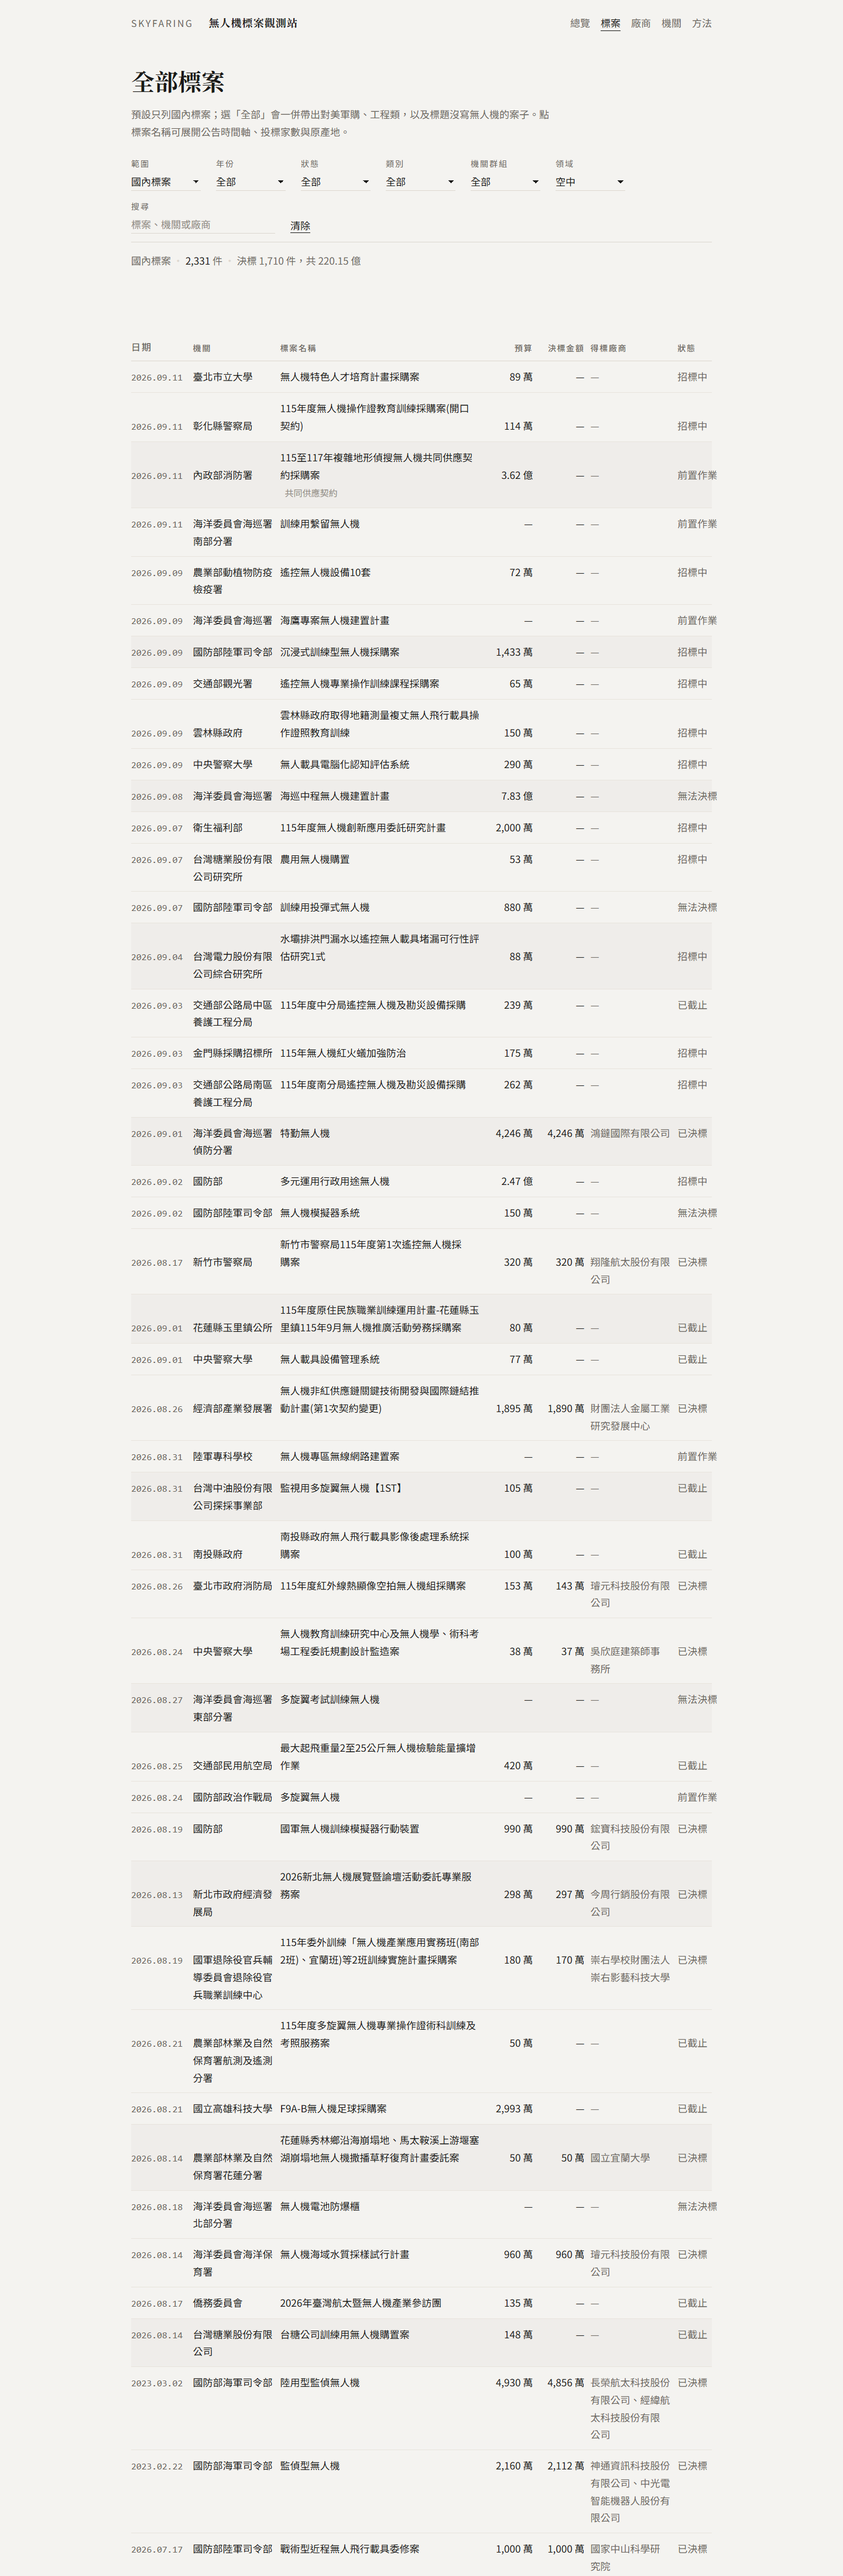
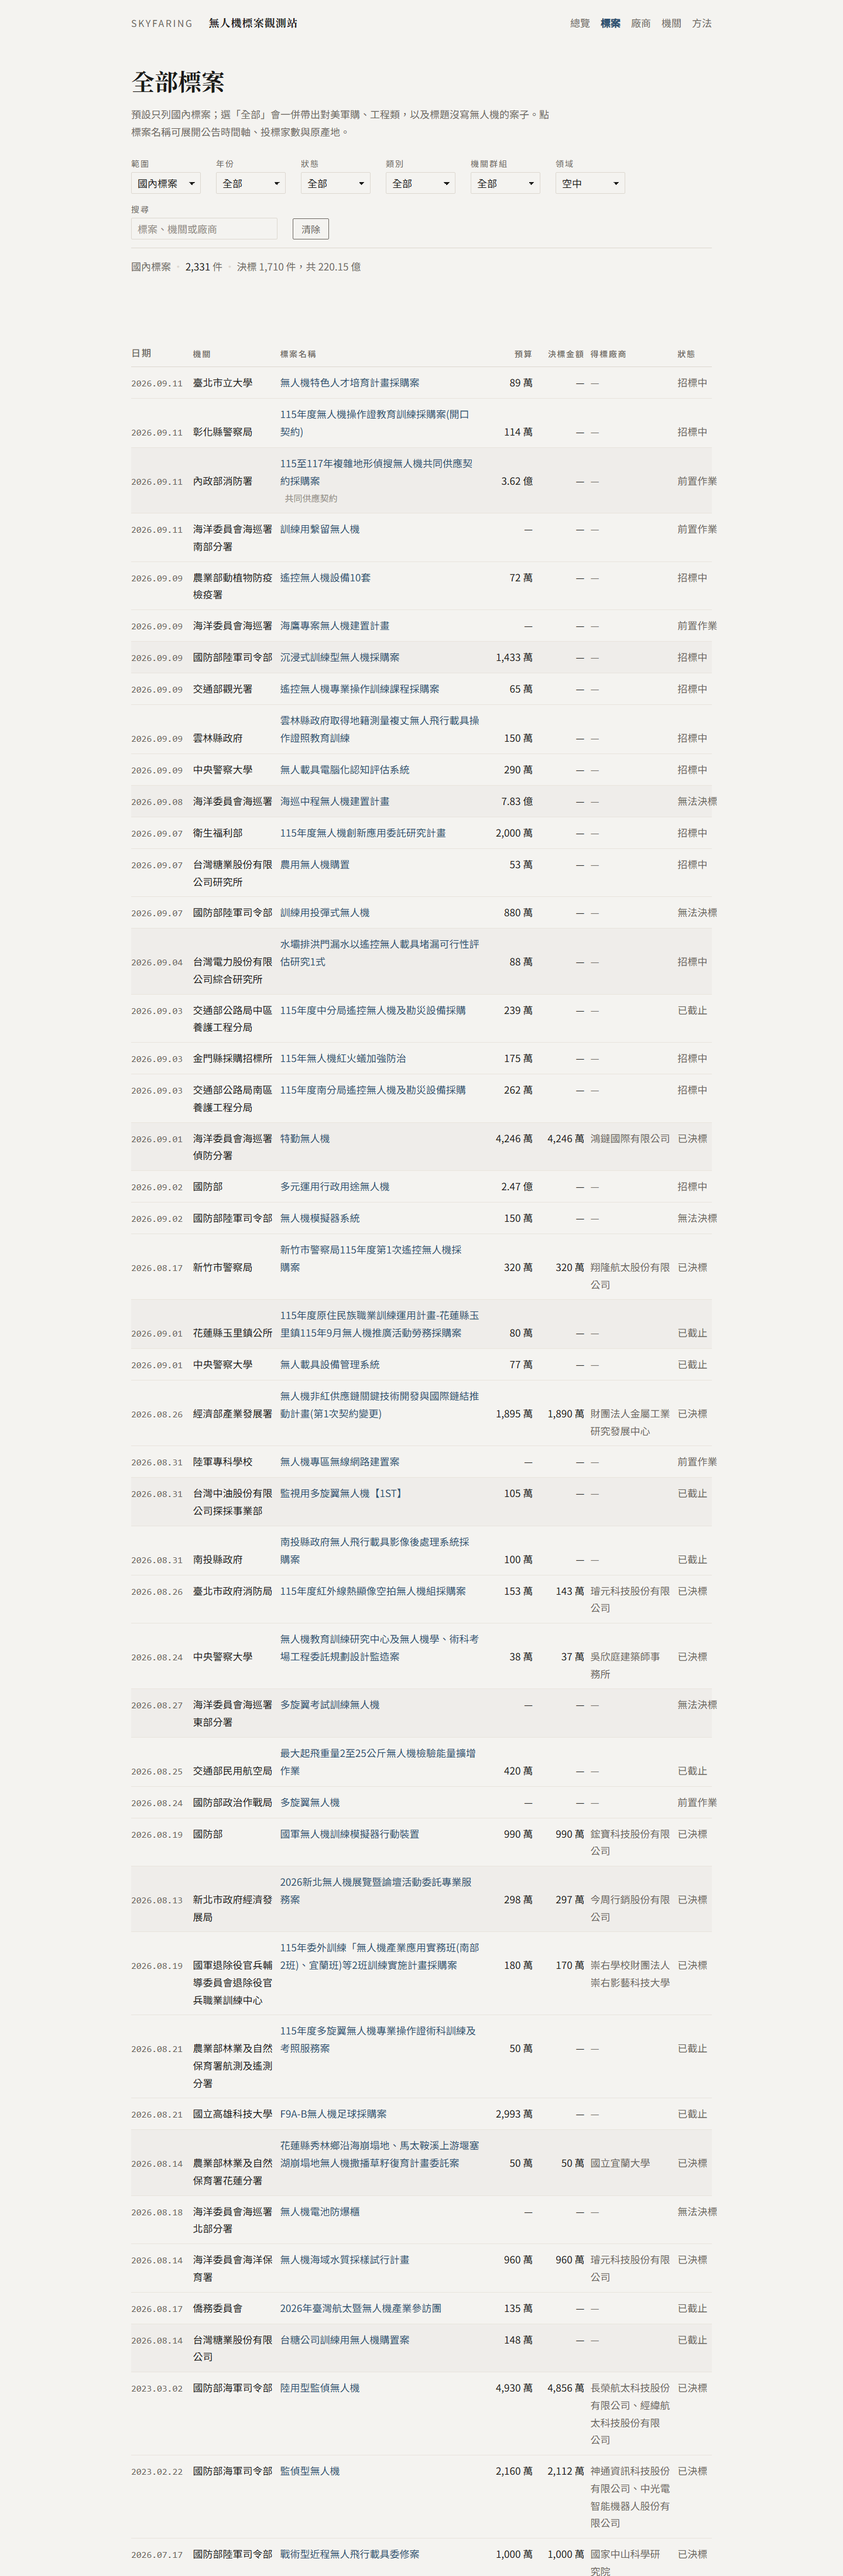
連結不用底線，改用顏色；底線式按鈕改成細框
- 新增 --link／--link-hover 兩個變數：連結用主色藍，hover 轉赭色，
  深淺色各一組。所有 a 一律 text-decoration: none，站內站外一致。
- 頁頭頁籤：當前頁改成字重 700 加主色，其餘 --muted、hover 轉主色，
  拿掉原本的底線標示。
- 篩選器的 select 與搜尋框從只有下緣線改成 1px 全框、2px 圓角，
  hover 邊框轉主色；下拉箭頭位置跟著內縮。
- 「清除」「再看 N 筆」這類底線文字按鈕改成細框按鈕（1px 邊框、
  2px 圓角、無底色無陰影），hover 文字與邊框轉主色。
- 表格裡可展開的標案名稱另立 .linkbtn：外觀比照一般連結，
  不加框也不加 border-bottom，hover 轉赭色。
- 廠商與機關頁可展開的列改成 hover 整列淡底色（var(--paper)）。
- :focus-visible 維持 1px 外框不動。
- 清掉全部 text-underline-offset 宣告；CDP 實測五頁的 a／button
  computed textDecorationLine 皆無 underline，樣式表裡也沒有任何
  underline 宣告（hover 狀態同樣不會出現）。

五頁資源版號 v11 -> v12。

diff --git a/assets/style.css b/assets/style.css
@@ -11,6 +11,8 @@
   --rule: #ddd8d0;
   --hair: #e8e4dd;
   --accent: #2b4f6f;
+  --link: #2b4f6f;
+  --link-hover: #a8763e;
 
   /* 原產地／類別用色，深淺色各一套 */
   --c1: #2b4f6f;
@@ -38,6 +40,8 @@
     --rule: #2b2d2a;
     --hair: #232522;
     --accent: #9dc0dc;
+    --link: #9dc0dc;
+    --link-hover: #d8a86a;
 
     --c1: #7fa9cc;
     --c2: #d8a86a;
@@ -63,8 +67,13 @@ body {
   -webkit-font-smoothing: antialiased;
 }
 
-a { color: inherit; }
-a:hover { color: var(--accent); }
+/* 連結一律不畫底線，靠顏色辨識；hover 轉赭色 */
+a {
+  color: var(--link);
+  text-decoration: none;
+}
+
+a:hover { color: var(--link-hover); }
 
 h1, h2, h3, p, ul, ol, dl, figure { margin: 0; }
 ul, ol { padding: 0; list-style: none; }
@@ -115,7 +124,7 @@ p, li, td, figcaption { text-wrap: pretty; }
   text-decoration: none;
 }
 
-.brand:hover { color: var(--fg); }
+.brand:hover { color: var(--link); }
 
 .site-name {
   flex: 1 1 auto;
@@ -141,13 +150,11 @@ p, li, td, figcaption { text-wrap: pretty; }
   text-decoration: none;
 }
 
-.nav a:hover { color: var(--fg); }
+.nav a:hover { color: var(--link); }
 
 .nav a[aria-current="page"] {
-  color: var(--fg);
-  text-decoration: underline;
-  text-underline-offset: 6px;
-  text-decoration-thickness: 1px;
+  font-weight: 700;
+  color: var(--link);
 }
 
 .col > section { padding-block: 52px; }
@@ -417,7 +424,6 @@ h3 {
 .recent .a .ty { display: block; font-size: 15px; color: var(--faint); }
 
 .more { margin-top: 22px; font-size: 17px; }
-.more a { text-underline-offset: 5px; }
 
 /* ---------- 圖片 ---------- */
 
@@ -431,9 +437,8 @@ figure.photo figcaption {
   color: var(--muted);
 }
 
-figure.photo figcaption a { text-underline-offset: 3px; }
 
-/* ---------- 篩選器（細框／底線，無膠囊無陰影） ---------- */
+/* ---------- 篩選器（細框，無膠囊無陰影） ---------- */
 
 .filters {
   display: flex;
@@ -457,10 +462,9 @@ figure.photo figcaption a { text-underline-offset: 3px; }
   appearance: none;
   min-width: 7em;
   max-width: 100%;
-  padding: 3px 18px 3px 0;
-  border: 0;
-  border-bottom: 1px solid var(--rule);
-  border-radius: 0;
+  padding: 5px 10px;
+  border: 1px solid var(--rule);
+  border-radius: 2px;
   background: none;
   color: var(--fg);
   font: inherit;
@@ -471,38 +475,53 @@ figure.photo figcaption a { text-underline-offset: 3px; }
 .field select {
   background-image: linear-gradient(45deg, transparent 50%, currentColor 50%),
     linear-gradient(135deg, currentColor 50%, transparent 50%);
-  background-position: calc(100% - 8px) calc(50% + 1px), calc(100% - 3px) calc(50% + 1px);
+  padding-right: 26px;
+  background-position: calc(100% - 14px) calc(50% + 1px), calc(100% - 9px) calc(50% + 1px);
   background-size: 5px 5px, 5px 5px;
   background-repeat: no-repeat;
 }
 
-.field select:hover, .field input:hover { border-bottom-color: var(--fg); }
+.field select:hover, .field input:hover { border-color: var(--link); }
 .field input::placeholder { color: var(--faint); }
 .field option { background: var(--bg); color: var(--fg); }
 
 .field-wide input { min-width: 13em; }
 
+/* 細框按鈕：1px 邊框、無底色無陰影，hover 邊框轉主色 */
 .linkish {
+  appearance: none;
+  padding: 5px 14px;
+  border: 1px solid currentColor;
+  border-radius: 2px;
+  background: none;
+  color: var(--muted);
+  font: inherit;
+  font-size: 16px;
+  line-height: 1.5;
+  cursor: pointer;
+}
+
+.linkish:hover { color: var(--link); }
+
+/* 看起來像連結的按鈕（表格裡的標案名稱），不加框也不加底線 */
+.linkbtn {
   appearance: none;
   padding: 0;
   border: 0;
   background: none;
-  color: inherit;
+  color: var(--link);
   font: inherit;
-  font-size: 17px;
-  text-decoration: underline;
-  text-underline-offset: 5px;
-  text-decoration-thickness: 1px;
+  text-align: left;
   cursor: pointer;
 }
 
-.linkish:hover { color: var(--accent); }
+.linkbtn:hover { color: var(--link-hover); }
 
 .btn {
   appearance: none;
   padding: 5px 14px;
   border: 1px solid var(--rule);
-  border-radius: 0;
+  border-radius: 2px;
   background: none;
   color: var(--fg);
   font: inherit;
@@ -511,7 +530,7 @@ figure.photo figcaption a { text-underline-offset: 3px; }
   cursor: pointer;
 }
 
-.btn:hover { border-color: var(--fg); }
+.btn:hover { border-color: var(--link); }
 
 .result-line {
   margin: 16px 0 0;
@@ -563,11 +582,7 @@ th.t-num { text-align: right; }
 .t-title .open-btn {
   font: inherit;
   text-align: left;
-  text-decoration: none;
-  border-bottom: 1px solid transparent;
 }
-
-.t-title .open-btn:hover { border-bottom-color: var(--accent); }
 .t-title .flag { font-size: 15px; color: var(--faint); padding-left: 8px; white-space: nowrap; }
 
 tr.detail > td { padding: 0 0 18px; border-bottom: 1px solid var(--hair); background: none !important; }
@@ -623,7 +638,8 @@ tr.detail > td { padding: 0 0 18px; border-bottom: 1px solid var(--hair); backgr
   cursor: pointer;
 }
 
-.row-btn:hover .nm { color: var(--accent); }
+.row-btn:hover { background: var(--paper); }
+.row-btn:hover .nm { color: var(--link); }
 .row-btn .i { font-family: var(--mono); font-size: 15px; color: var(--faint); }
 .row-btn .nm { min-width: 0; overflow-wrap: anywhere; text-wrap: pretty; }
 .row-btn .nm .tag { font-size: 14px; letter-spacing: 0.08em; color: var(--faint); padding-left: 10px; white-space: nowrap; }
@@ -713,7 +729,6 @@ tr.detail > td { padding: 0 0 18px; border-bottom: 1px solid var(--hair); backgr
   color: var(--muted);
 }
 .prose p + p { margin-top: 18px; }
-.prose a { text-underline-offset: 4px; }
 
 .deflist { margin-top: 4px; font-size: 17px; }
 
@@ -746,7 +761,6 @@ tr.detail > td { padding: 0 0 18px; border-bottom: 1px solid var(--hair); backgr
 .series { max-width: 44em; font-size: 17px; }
 .series li { padding: 12px 0; border-top: 1px solid var(--hair); }
 .series li:last-child { border-bottom: 1px solid var(--hair); }
-.series a { text-underline-offset: 4px; }
 .series .sep { padding: 0 9px; color: var(--rule); }
 .series .k { font-size: 16px; color: var(--faint); }
 .series .d { display: block; font-size: 17px; color: var(--muted); }
@@ -766,7 +780,6 @@ tr.detail > td { padding: 0 0 18px; border-bottom: 1px solid var(--hair); backgr
   color: var(--muted);
 }
 
-.site-foot a { text-underline-offset: 3px; }
 .site-foot .fr { text-align: right; }
 
 /* ---------- 寬螢幕 ---------- */

diff --git a/agencies.html b/agencies.html
@@ -16,8 +16,8 @@
 <link rel="preconnect" href="https://fonts.gstatic.com" crossorigin>
 <link rel="stylesheet" href="https://fonts.googleapis.com/css2?family=Noto+Sans+TC:wght@400;500&family=Noto+Serif+TC:wght@700&display=swap">
 <link rel="icon" href="favicon.svg" type="image/svg+xml">
-<link rel="stylesheet" href="assets/style.css?v=11">
-<script type="module" src="assets/agencies.js?v=11"></script>
+<link rel="stylesheet" href="assets/style.css?v=12">
+<script type="module" src="assets/agencies.js?v=12"></script>
 </head>
 <body>
 

diff --git a/tenders.html b/tenders.html
@@ -16,8 +16,8 @@
 <link rel="preconnect" href="https://fonts.gstatic.com" crossorigin>
 <link rel="stylesheet" href="https://fonts.googleapis.com/css2?family=Noto+Sans+TC:wght@400;500&family=Noto+Serif+TC:wght@700&display=swap">
 <link rel="icon" href="favicon.svg" type="image/svg+xml">
-<link rel="stylesheet" href="assets/style.css?v=11">
-<script type="module" src="assets/tenders.js?v=11"></script>
+<link rel="stylesheet" href="assets/style.css?v=12">
+<script type="module" src="assets/tenders.js?v=12"></script>
 </head>
 <body>
 

diff --git a/vendors.html b/vendors.html
@@ -16,8 +16,8 @@
 <link rel="preconnect" href="https://fonts.gstatic.com" crossorigin>
 <link rel="stylesheet" href="https://fonts.googleapis.com/css2?family=Noto+Sans+TC:wght@400;500&family=Noto+Serif+TC:wght@700&display=swap">
 <link rel="icon" href="favicon.svg" type="image/svg+xml">
-<link rel="stylesheet" href="assets/style.css?v=11">
-<script type="module" src="assets/vendors.js?v=11"></script>
+<link rel="stylesheet" href="assets/style.css?v=12">
+<script type="module" src="assets/vendors.js?v=12"></script>
 </head>
 <body>
 

diff --git a/about.html b/about.html
@@ -16,8 +16,8 @@
 <link rel="preconnect" href="https://fonts.gstatic.com" crossorigin>
 <link rel="stylesheet" href="https://fonts.googleapis.com/css2?family=Noto+Sans+TC:wght@400;500&family=Noto+Serif+TC:wght@700&display=swap">
 <link rel="icon" href="favicon.svg" type="image/svg+xml">
-<link rel="stylesheet" href="assets/style.css?v=11">
-<script type="module" src="assets/about.js?v=11"></script>
+<link rel="stylesheet" href="assets/style.css?v=12">
+<script type="module" src="assets/about.js?v=12"></script>
 </head>
 <body>
 

diff --git a/index.html b/index.html
@@ -18,8 +18,8 @@
 <link rel="preconnect" href="https://fonts.gstatic.com" crossorigin>
 <link rel="stylesheet" href="https://fonts.googleapis.com/css2?family=Noto+Sans+TC:wght@400;500&family=Noto+Serif+TC:wght@700&display=swap">
 <link rel="icon" href="favicon.svg" type="image/svg+xml">
-<link rel="stylesheet" href="assets/style.css?v=11">
-<script type="module" src="assets/index.js?v=11"></script>
+<link rel="stylesheet" href="assets/style.css?v=12">
+<script type="module" src="assets/index.js?v=12"></script>
 </head>
 <body>
 

diff --git a/assets/tenders.js b/assets/tenders.js
@@ -150,7 +150,7 @@ function row(t) {
   const date = t.award_date || t.last_notice_date || t.first_notice_date;
 
   const btn = el('button', {
-    type: 'button', class: 'linkish open-btn', 'aria-expanded': 'false', text: t.title,
+    type: 'button', class: 'linkbtn open-btn', 'aria-expanded': 'false', text: t.title,
   });
 
   tr.append(
